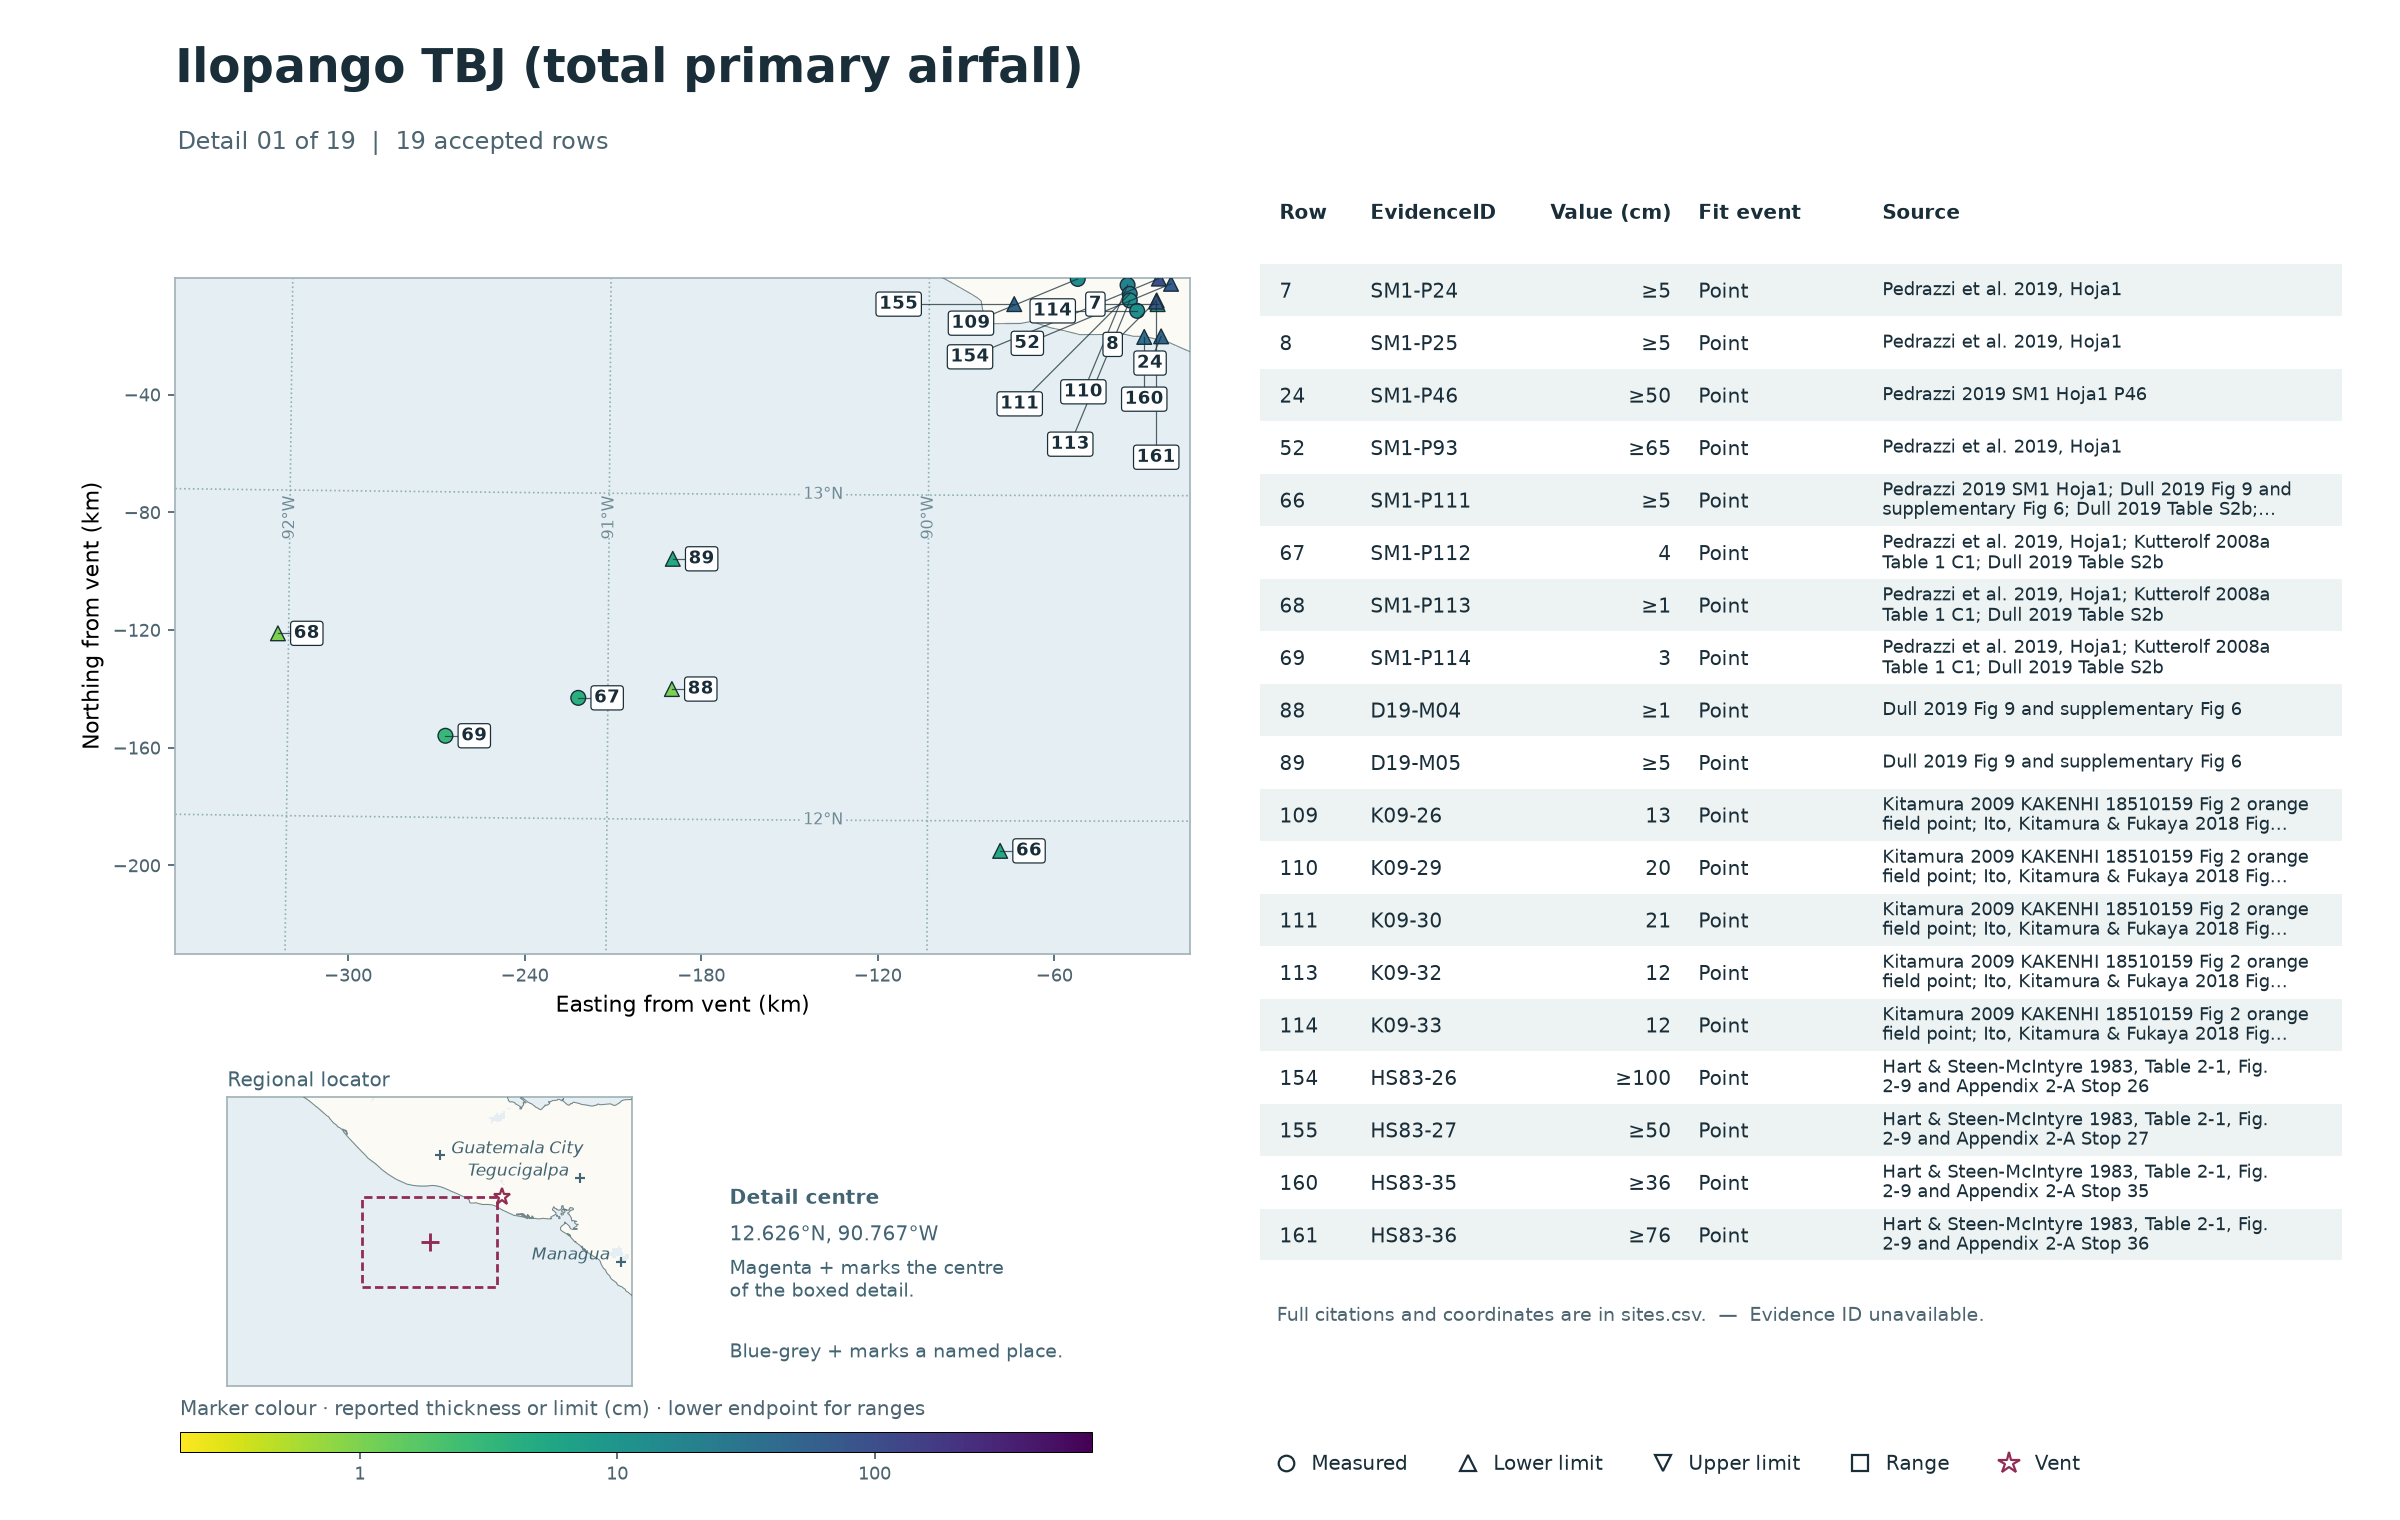
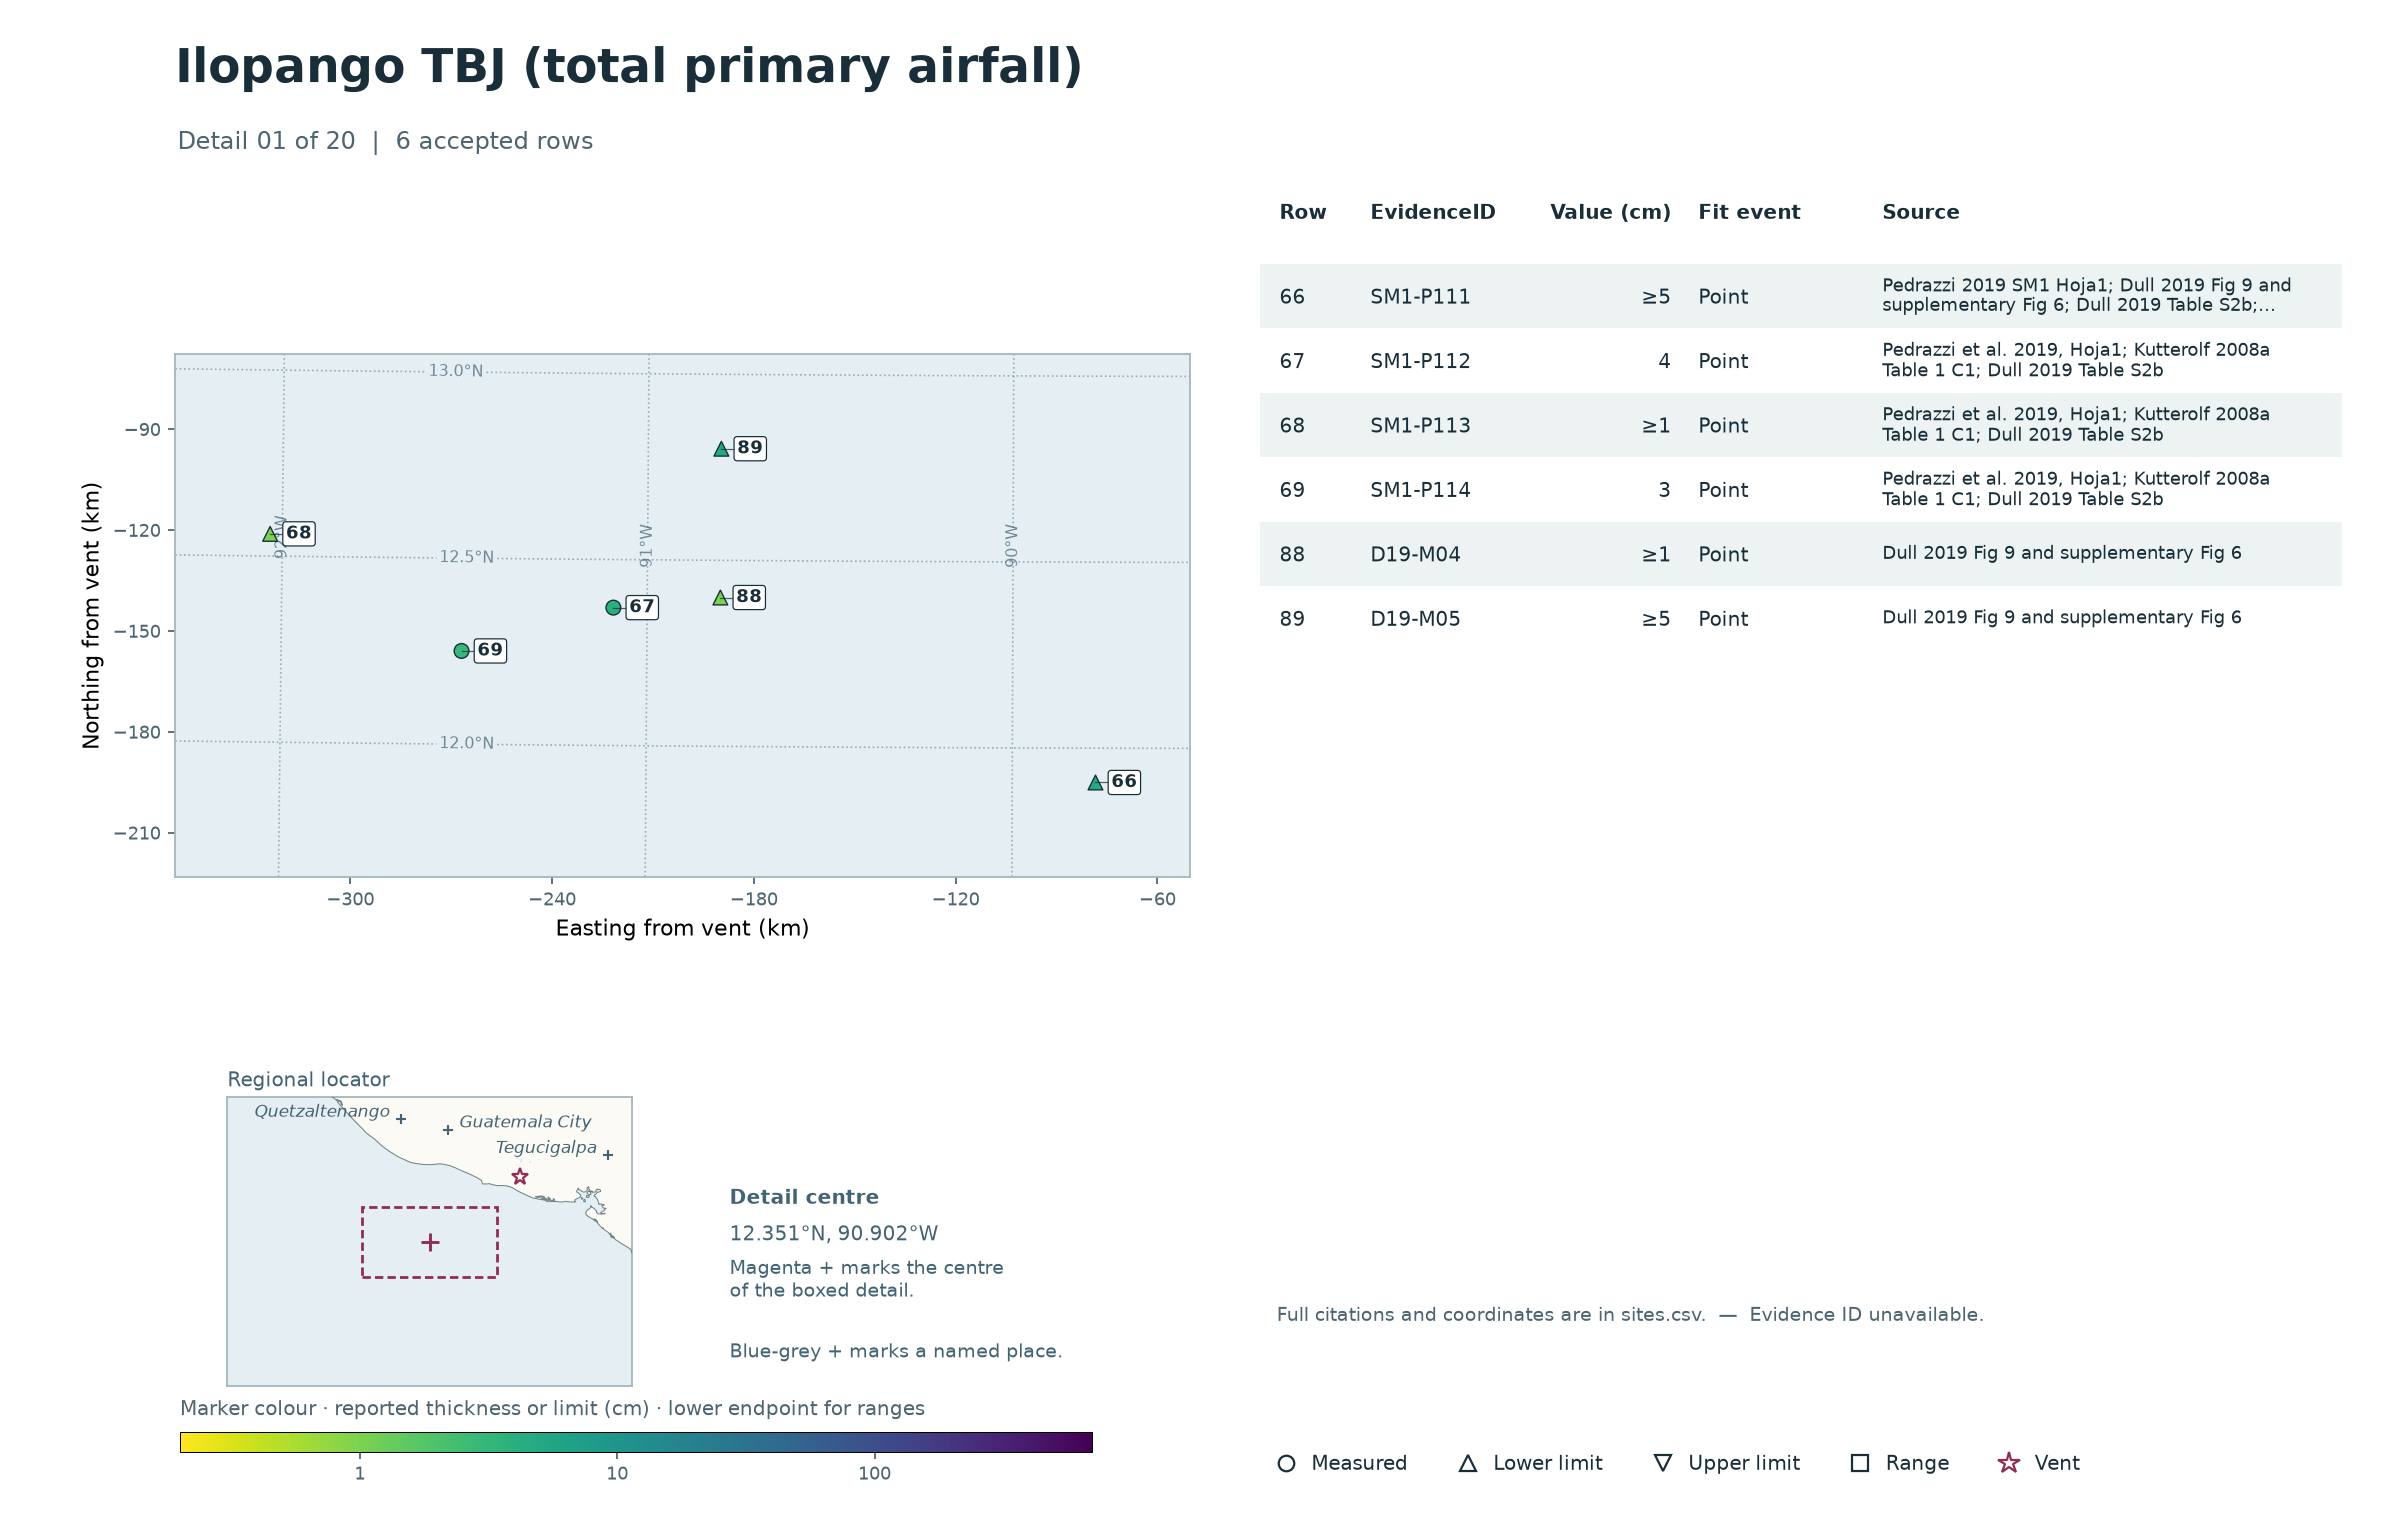
Add Ilopango's near-vent detail index
Use Box A for the 146 observations around Lake Ilopango. Retain Detail 01 for six offshore cores and assign its thirteen nearby sites to Detail 20. Preserve all observation values, sources and other plate numbers.

diff --git a/benchmarks/principal_input_figures.py b/benchmarks/principal_input_figures.py
@@ -35,6 +35,7 @@ BOX_COLORS = ("#854315", "#72488c", "#126067", "#8b3650", "#385790", "#52611c")
 NEAR_VENT = {
     "mazama": ("Crater Lake area", (-27., -202., 186., 125.)),
     "b-tm": ("Changbaishan–Tianchi area", (-47., -21., 71., 62.)),
+    "ilopango-tbj": ("Lake Ilopango area", (-109., -48., 99., 80.)),
 }
 STYLES = {
     "Measured": ("o", ""),
@@ -59,6 +60,50 @@ class IndexBox:
     label: str
     bounds: tuple[float, float, float, float]
     color: str = ACCENT
+
+
+def align_detail_panels(slug, xy, panels):
+    """Separate rows that span a regional frame while retaining existing plate numbers."""
+    if slug not in NEAR_VENT:
+        return panels, []
+    _, frame = NEAR_VENT[slug]
+    revised = list(panels)
+    splits = []
+
+    def framed(indices, limit):
+        bounds = padded_bounds(xy[indices], .115)
+        bounds[:2] = np.maximum(bounds[:2], limit[:2])
+        bounds[2:] = np.minimum(bounds[2:], limit[2:])
+        return Panel(tuple(map(float, bounds)), indices)
+
+    for i, panel in enumerate(panels):
+        points = xy[panel.indices]
+        inside = ((points >= frame[:2]) & (points <= frame[2:])).all(axis=1)
+        if not inside.any() or inside.all():
+            continue
+        # Cut off south, north, west and east in turn. Once assigned,
+        # a point outside two edges belongs to the first exterior piece.
+        remaining = np.ones(len(points), dtype=bool)
+        limits = np.array(panel.bounds)
+        exterior = []
+        for axis, upper in ((1, False), (1, True), (0, False), (0, True)):
+            edge = frame[axis + 2] if upper else frame[axis]
+            beyond = points[:, axis] > edge if upper else points[:, axis] < edge
+            selected = remaining & beyond
+            if selected.any():
+                outer = limits.copy()
+                outer[axis if upper else axis + 2] = edge
+                exterior.append(framed(panel.indices[selected], outer))
+            remaining &= ~beyond
+            if upper:
+                limits[axis + 2] = min(limits[axis + 2], edge)
+            else:
+                limits[axis] = max(limits[axis], edge)
+        revised[i] = exterior[0]
+        revised.extend(exterior[1:])
+        revised.append(framed(panel.indices[inside], limits))
+        splits.append({"original_detail": i + 1, "regional_detail": len(revised)})
+    return revised, splits
 
 
 def regional_view(slug, xy, panels):
@@ -258,6 +303,24 @@ def label_positions(ax, anchors, labels, obstacles, *, colors=None, preferred_bo
                 facecolor="white", edgecolor=color, linewidth=.55))
 
 
+def regional_boxes(panels, numbers):
+    boxes = []
+    for j, number in enumerate(numbers):
+        bounds = panels[number - 1].bounds
+        low, high = np.reshape(bounds, (2, 2))
+        touching_colors = set()
+        for box in boxes:
+            other_low, other_high = np.reshape(box.bounds, (2, 2))
+            # At regional scale even a gap of a kilometre can look like a shared edge.
+            if (np.maximum(low, other_low) <= np.minimum(high, other_high) + 1.).all():
+                touching_colors.add(box.color)
+        preferred = j % len(BOX_COLORS)
+        palette = BOX_COLORS[preferred:] + BOX_COLORS[:preferred]
+        color = next((color for color in palette if color not in touching_colors), palette[0])
+        boxes.append(IndexBox(f"{number:02}", bounds, color))
+    return boxes
+
+
 def draw_index_boxes(ax, boxes, obstacles, *, regional):
     corners = []
     for box in boxes:
@@ -379,7 +442,7 @@ def colour_ticks(norm):
 def packet(record):
     xy, rows, meta, ledger = audited_rows(record)
     bounds = padded_bounds(np.vstack((xy, [0, 0])), .09)
-    panels = detail_panels(xy, bounds)
+    panels, splits = align_detail_panels(record["slug"], xy, detail_panels(xy, bounds))
     assigned = np.zeros(len(xy), dtype=int)
     for number, panel in enumerate(panels, 1):
         for i, key in panel_keys(panel, xy, rows):
@@ -414,6 +477,8 @@ def packet(record):
     }
     region = regional_view(record["slug"], xy, panels)
     if region:
+        if splits:
+            region["split_details"] = splits
         manifest["regional_index"] = region
     if ledger:
         manifest["row_sources"] = ledger.relative_to(ROOT).as_posix()
@@ -466,8 +531,12 @@ def case_page(record, manifest, directory):
         lines += ["## Near-vent detail index", "",
                   f'**Box A · {region["title"]}** contains {region["observations"]} accepted observations. '
                   f'Match a numbered box to the links below for its site locations and readings. {links}', "",
-                  f'![Enlarged box A with numbered boundaries for the near-vent detail plates]({region["file"]})', "",
-                  "## All detail plates", ""]
+                  f'![Enlarged box A with numbered boundaries for the near-vent detail plates]({region["file"]})', ""]
+        for split in region.get("split_details", []):
+            prior, local = split["original_detail"], split["regional_detail"]
+            lines += [f'Sites previously grouped in [Detail {prior:02}](detail-{prior:02}.png) '
+                      f'now have a separate [Detail {local:02}](detail-{local:02}.png) inside Box A.', ""]
+        lines += ["## All detail plates", ""]
     lines += ["| Detail plate | Input rows | Easting × northing span |", "|---|---:|---:|"]
     for number, detail in enumerate(manifest["details"], 1):
         x0, y0, x1, y1 = detail["bounds_km"]
@@ -515,8 +584,7 @@ def run_case(record, directory, *, verify):
         if region:
             children = region["detail_numbers"]
             subset = np.sort(np.concatenate([panels[n-1].indices for n in children]))
-            detail_boxes = [IndexBox(f"{n:02}", panels[n-1].bounds, BOX_COLORS[j % len(BOX_COLORS)])
-                            for j, n in enumerate(children)]
+            detail_boxes = regional_boxes(panels, children)
             figure(directory / region["file"], f'{title} · A · {region["title"]}',
                    f'{len(subset)} accepted observations  |  numbers match the detail plates below this map',
                    region["bounds_km"], vent, xy[subset], [rows[i] for i in subset], norm, kinds,

diff --git a/eruptions/ilopango-tbj/observations/README.md b/eruptions/ilopango-tbj/observations/README.md
@@ -1,31 +1,42 @@
 # Ilopango TBJ (total primary airfall) · principal input observations
 
-All 168 accepted rows have a symbol at their registered coordinates on the overview and a labelled reading on one numbered detail plate. The dashed boxes show the detail extents. A star marks the vent. Positions use a vent-centred equal-area grid in kilometres. The basemap uses Natural Earth land and coastlines.
+All 168 accepted rows have a symbol at their registered coordinates on the overview and a labelled reading on one numbered detail plate. Box A on the overview marks the area shown in the near-vent detail index. Other numbered boxes lead directly to detail plates. A star marks the vent. Positions use a vent-centred equal-area grid in kilometres. The basemap uses Natural Earth land and coastlines.
 
-[Accepted input CSV](../../../data/eruptions/Ilopango_TBJ_total_airfall_minimum_fit.csv) · [Reported CSV](../../../data/eruptions/Ilopango_TBJ_total_airfall.csv) · [Audit provenance](../../../data/audits/Ilopango-TBJ/field-logs/provenance.json) · [Source ledger](../../../data/audits/Ilopango-TBJ/field-logs/localities.csv) · [Site index with coordinates and full input precision](sites.csv) · [Input hashes and panel bounds](manifest.json)
+[Go to the near-vent map](#near-vent-detail-index) · [Accepted input CSV](../../../data/eruptions/Ilopango_TBJ_total_airfall_minimum_fit.csv) · [Reported CSV](../../../data/eruptions/Ilopango_TBJ_total_airfall.csv) · [Audit provenance](../../../data/audits/Ilopango-TBJ/field-logs/provenance.json) · [Source ledger](../../../data/audits/Ilopango-TBJ/field-logs/localities.csv) · [Site index with coordinates and full input precision](sites.csv) · [Input hashes and panel bounds](manifest.json)
 
 The table shows the evidence ID and source citation alongside the reported or interpreted reading. A dash marks an unavailable evidence ID. Complete citations and unrounded values are in the site index. A reported lower limit appears as ≥ on these evidence figures and as a point at that value in the fit. Upper limits and ranges retain their respective events. Marker colour represents the displayed thickness or limit, using the lower endpoint for ranges. Where rows share coordinates, a single diamond uses the first CSV row as its map key and the adjacent table lists each row.
 
 ![Overview of accepted observation locations and numbered detail boxes](overview.png)
 
+## Near-vent detail index
+
+**Box A · Lake Ilopango area** contains 146 accepted observations. Match a numbered box to the links below for its site locations and readings. [02](detail-02.png), [05](detail-05.png), [06](detail-06.png), [07](detail-07.png), [08](detail-08.png), [09](detail-09.png), [10](detail-10.png), [12](detail-12.png), [13](detail-13.png), [15](detail-15.png), [16](detail-16.png), [17](detail-17.png), [20](detail-20.png)
+
+![Enlarged box A with numbered boundaries for the near-vent detail plates](near-vent.png)
+
+Sites previously grouped in [Detail 01](detail-01.png) now have a separate [Detail 20](detail-20.png) inside Box A.
+
+## All detail plates
+
 | Detail plate | Input rows | Easting × northing span |
 |---|---:|---:|
-| [01](detail-01.png) | 19 | 345 × 230 km |
-| [02](detail-02.png) | 19 | 50.4 × 10.6 km |
+| [01](detail-01.png) | 6 | 302 × 156 km |
+| [02](detail-02.png) · A | 19 | 50.4 × 10.6 km |
 | [03](detail-03.png) | 2 | 4.53 × 8.48 km |
 | [04](detail-04.png) | 2 | 24 × 72 km |
-| [05](detail-05.png) | 6 | 22.3 × 22.7 km |
-| [06](detail-06.png) | 6 | 5.42 × 3.9 km |
-| [07](detail-07.png) | 7 | 3.35 × 4.5 km |
-| [08](detail-08.png) | 16 | 32.9 × 17.8 km |
-| [09](detail-09.png) | 1 | 15.1 × 17.3 km |
-| [10](detail-10.png) | 2 | 5.76 × 4.52 km |
+| [05](detail-05.png) · A | 6 | 22.3 × 22.7 km |
+| [06](detail-06.png) · A | 6 | 5.42 × 3.9 km |
+| [07](detail-07.png) · A | 7 | 3.35 × 4.5 km |
+| [08](detail-08.png) · A | 16 | 32.9 × 17.8 km |
+| [09](detail-09.png) · A | 1 | 15.1 × 17.3 km |
+| [10](detail-10.png) · A | 2 | 5.76 × 4.52 km |
 | [11](detail-11.png) | 7 | 228 × 188 km |
-| [12](detail-12.png) | 21 | 59.4 × 35.9 km |
-| [13](detail-13.png) | 14 | 39.9 × 23.2 km |
+| [12](detail-12.png) · A | 21 | 59.4 × 35.9 km |
+| [13](detail-13.png) · A | 14 | 39.9 × 23.2 km |
 | [14](detail-14.png) | 2 | 0.123 × 0.219 km |
-| [15](detail-15.png) | 19 | 21.5 × 59 km |
-| [16](detail-16.png) | 21 | 33.4 × 34.2 km |
-| [17](detail-17.png) | 1 | 17.3 × 17.3 km |
+| [15](detail-15.png) · A | 19 | 21.5 × 59 km |
+| [16](detail-16.png) · A | 21 | 33.4 × 34.2 km |
+| [17](detail-17.png) · A | 1 | 17.3 × 17.3 km |
 | [18](detail-18.png) | 2 | 143 × 48.5 km |
 | [19](detail-19.png) | 1 | 17.3 × 17.3 km |
+| [20](detail-20.png) · A | 13 | 65.5 × 26.3 km |
